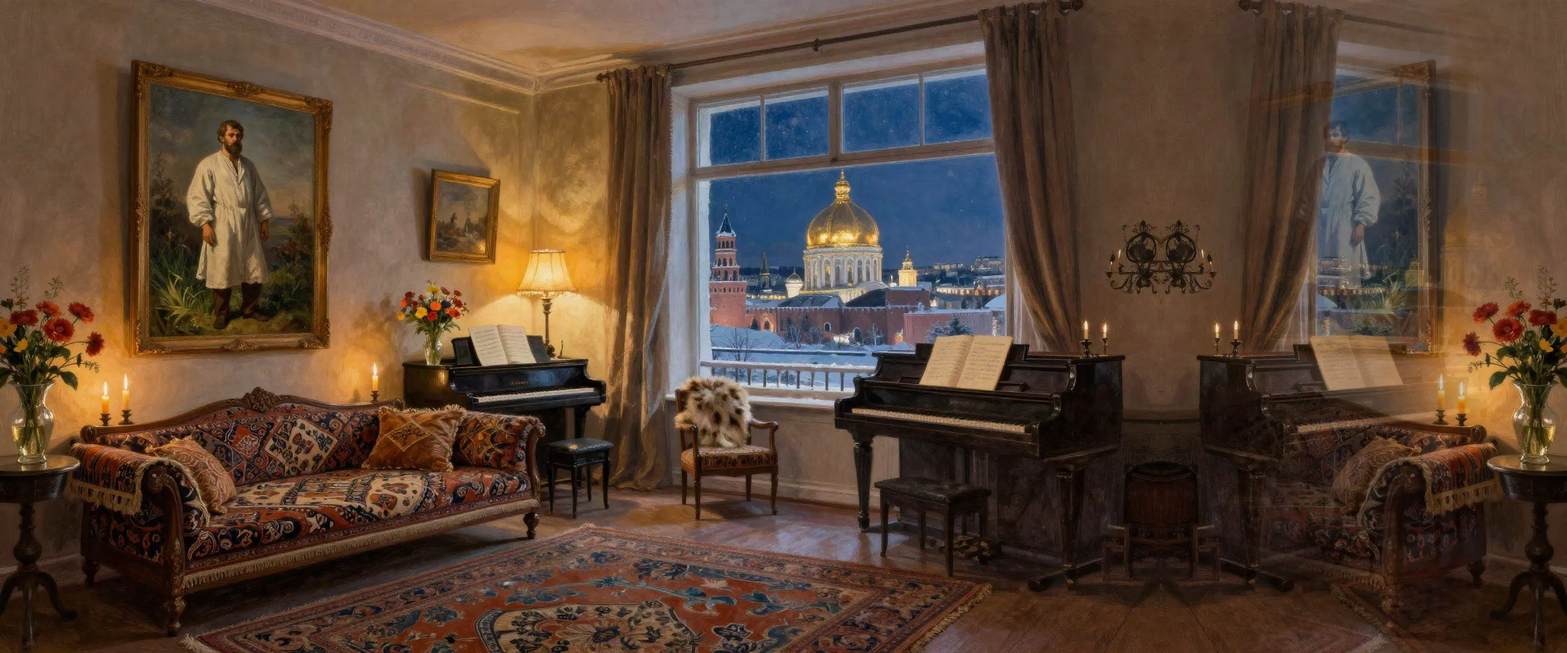
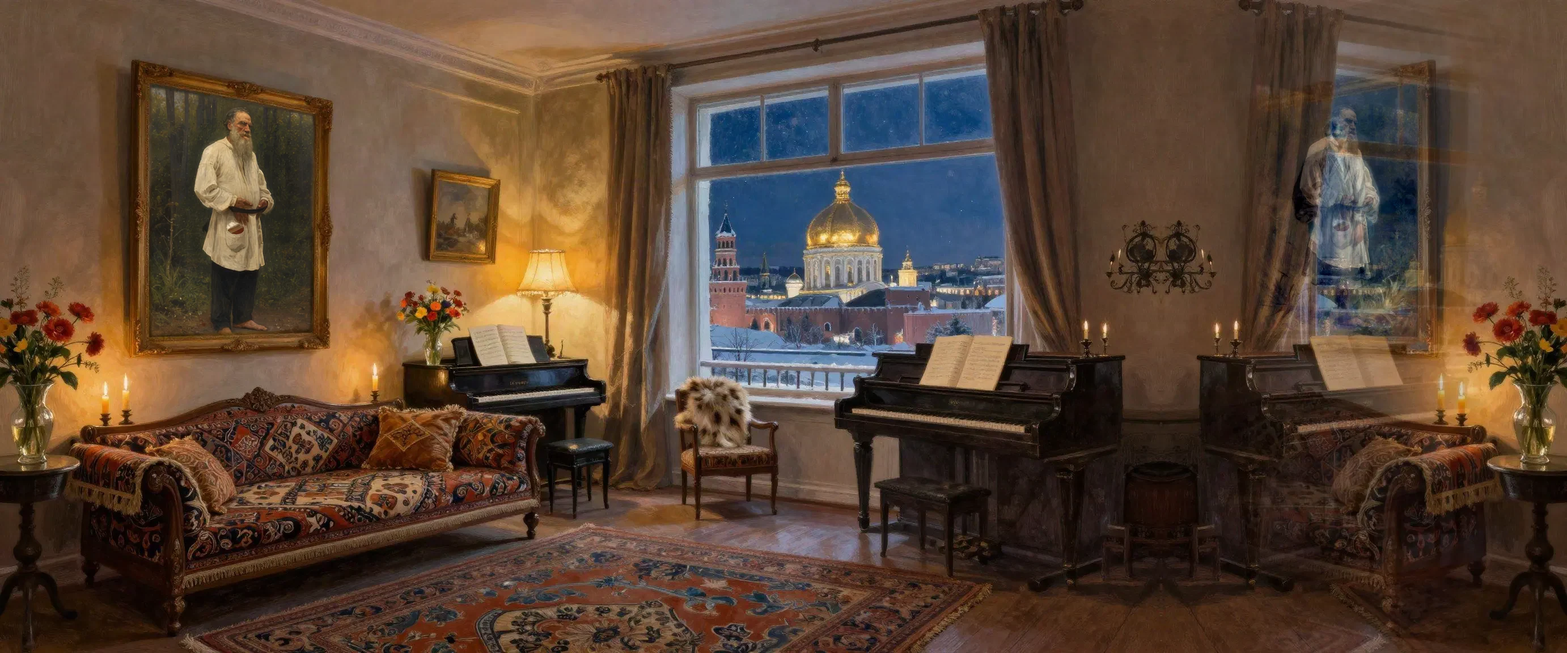
Убрана сцена «Илья Муромец и Соловей-разбойник»; новый портрет Толстого в «Чистом понедельнике»
- Сцена ilya исключена из игры (данные и картинки сохранены, вернуть — добавить "ilya" в READY)
- В «Чистом понедельнике» портрет в раме заменён на копию «Л. Н. Толстой босой» Репина
  (Higgsfield, FLUX 3), обновлены панорама, превью и миниатюра

Changed region(s): [[0.0933, 0.125, 0.2178, 0.5312], [0.809, 0.1562, 0.9023, 0.4375], [0.8401, 0.4375, 0.9023, 0.5]]

diff --git a/index.html b/index.html
@@ -1005,7 +1005,7 @@ const SPOTS={
           {x:.44,y:.43,w:.08,h:.12,t:'Самовар',q:'Гостей встречают радушно. Хозяин умеет шутить, но шутки одни и те же много лет.'}]
 };
 ROUNDS.forEach(r=>{if(SPOTS[r.id]) r.spots=SPOTS[r.id];});
-const READY = ["aust", "blok", "borodino", "braslet", "capri", "chp", "don", "famusov", "fili", "glupov", "grib", "groza", "ilya", "ionych", "kapdoch", "levsha", "liza", "matryona", "meri", "mtsyri", "nadne", "nekrasov", "oblomov", "onegin", "otcy", "pin", "plyushkin", "rekviem", "revizor", "sad", "shen", "shinel", "slovo", "sobach", "strannik", "taman", "vsadnik"];
+const READY = ["aust", "blok", "borodino", "braslet", "capri", "chp", "don", "famusov", "fili", "glupov", "grib", "groza", "ionych", "kapdoch", "levsha", "liza", "matryona", "meri", "mtsyri", "nadne", "nekrasov", "oblomov", "onegin", "otcy", "pin", "plyushkin", "rekviem", "revizor", "sad", "shen", "shinel", "slovo", "sobach", "strannik", "taman", "vsadnik"];
 const POOL = ROUNDS.filter(r=>READY.includes(r.id));
 POOL.forEach(r=>{r.img='img/s_'+r.id+'.webp';});
 const CITY = Object.fromEntries(MAP.cities.map(c=>[c.id,c]));
